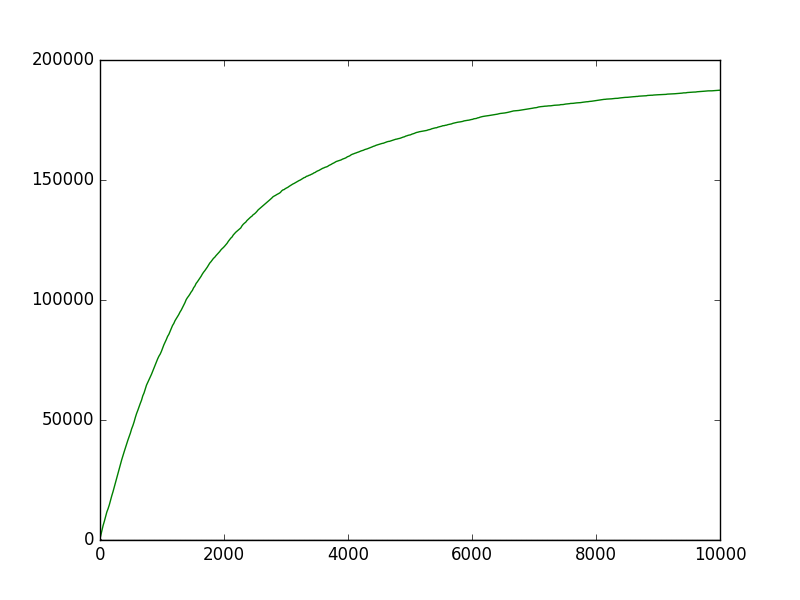
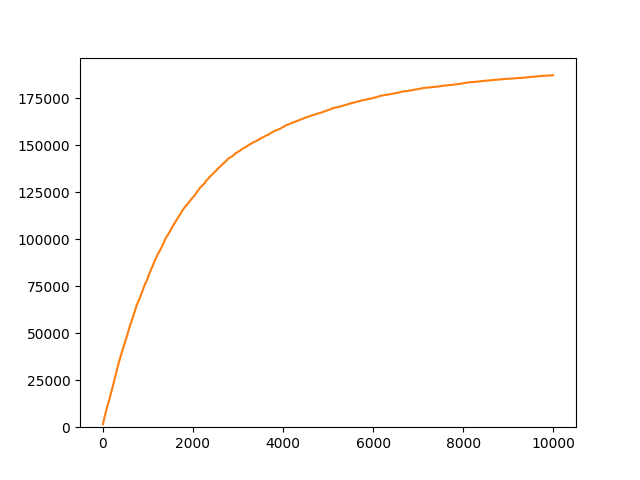
Change graphs and fix int division error

diff --git a/Code/Lifetime.py b/Code/Lifetime.py
@@ -27,7 +27,7 @@ class CandidateEvent(object):
 		self.kp = kp
 		self.pd = pd
 		self.ps = ps
-	
+
 	def __repr__(self):
 		str = super(CandidateEvent, self).__repr__() + "\n"
 		str += "Dstar_OWNPV\t" + np.array_str(self.interaction) + "\n"
@@ -37,10 +37,10 @@ class CandidateEvent(object):
 		str += "Pd\t\t" + np.array_str(self.pd) + "\n"
 		str += "Ps\t\t" + np.array_str(self.ps) + "\n"
 		return str
-	
+
 	def labFrameTravel(self):
 		return magnitude(self.dstarDecay-self.d0Decay) * 1e-3 # convert mm -> m
-	
+
 	def absoluteDecayTime(self):
 		# p in a 3 axes is conserved in `D0 --> pi + K` decay
 		pcomps_d0 = self.kp+self.pd # in MeV
@@ -49,26 +49,26 @@ class CandidateEvent(object):
 		m0_n = 1864.84 # MeV/c2
 		m0 = m0_n * 1e6 * e / c**2 # convert MeV/c* -> kg
 		# un-boosted time in the particle's frame
-		x = self.labFrameTravel()  
+		x = self.labFrameTravel()
 		tp = m0 * x / p_d0
 		print(x, p_d0, m0, tp)
 		return tp
-		
-		
+
+
 
 # reads a file and returns the D0 candidate events it lists
 # - expects the file to have specific col titles, returns None if there is an error
 def readFile(name: Text):
     with open(name, 'r') as csvfile:
     	# get the rows from the file
-        rows = csv.reader(csvfile, delimiter=' ', quotechar='|')
-        
+        rows = csv.reader(csvfile, delimiter=' ', quotechar='|') #creates array of array: each array is a row.
+
         # take the first element of the generator as the header
         header = next(rows)
         print(header)
         # store the candidates here
         cands = []
-        
+
 		# ignore the coordinate, remove the last '_X'/'_PX' part in the header name
         header_raw_names = ['_'.join(name.split('_')[:-1]) for name in header[::3]]
         order = ['Dstar_OWNPV', 'Dstar_ENDVERTEX', 'D_ENDVERTEX', 'K', 'Pd', 'Ps']
@@ -76,33 +76,37 @@ def readFile(name: Text):
         # get the indicies of these params in the row
         elementIdxs = [header_raw_names.index(x) for x in order]
         print(elementIdxs)
-        
+
         for row in rows:
         	# reshape row into several 3-vectors
         	nums = [float(x) for x in row]
-        	data = np.reshape(np.array(nums), (len(nums)/3, 3))
+        	data = np.reshape(np.array(nums), (len(nums)//3, int(3))) 
         	cand = CandidateEvent(data[elementIdxs[0]], data[elementIdxs[1]], data[elementIdxs[2]], data[elementIdxs[3]], data[elementIdxs[4]], data[elementIdxs[5]])
         	cands.append(cand)
-        	
+
         return cands
-        
 
-data = readFile('np.txt')
-times = [d.absoluteDecayTime()*1e15 for d in data]
 
-hist, bin_edges = np.histogram(times, bins=500, range=(0, 10000))
-pl.hist(times, bins=500, range=(0, 10000))
-pl.savefig('hist.png')
-bin_width = bin_edges[1]-bin_edges[0]
+def getLifetime():
+	data = readFile('np.txt')
+	print(data)
+	times = [d.absoluteDecayTime()*1e15 for d in data]
+	
+	hist, bin_edges = np.histogram(times, bins=500, range=(0, 10000))
+	pl.hist(times, bins=500, range=(0, 10000))
+	pl.savefig('hist.png')
+	bin_width = bin_edges[1]-bin_edges[0]
+	
+	cum = np.cumsum(hist)*bin_width
+	time = bin_edges[1:]
+	
+	pl.plot(time, cum)
+	pl.savefig('graph.png')
+	
+	po, po_cov = spo.curve_fit(lambda t, A, tau, c: A * np.exp(-t/tau) + c, time, cum, [1, 400, 0]) #TODO: error analysis, np.repeat(0.03, l-transition_idx), absolute_sigma=True)
+	
+	print('po', po)
+	
+	print(hist, len(cum))
 
-cum = np.cumsum(hist)*bin_width
-time = [(a+b)/2 for a, b in zip(bin_edges[:-1], bin_edges[1:])]
-
-pl.plot(time, cum)
-pl.savefig('graph.png')
-
-po, po_cov = spo.curve_fit(lambda t, A, tau, c: A * np.exp(-t/tau) + c, time, cum, [1, 400, 0]) #TODO: error analysis, np.repeat(0.03, l-transition_idx), absolute_sigma=True)
-
-print('po', po)
-
-print(hist, len(cum))
+getLifetime()
